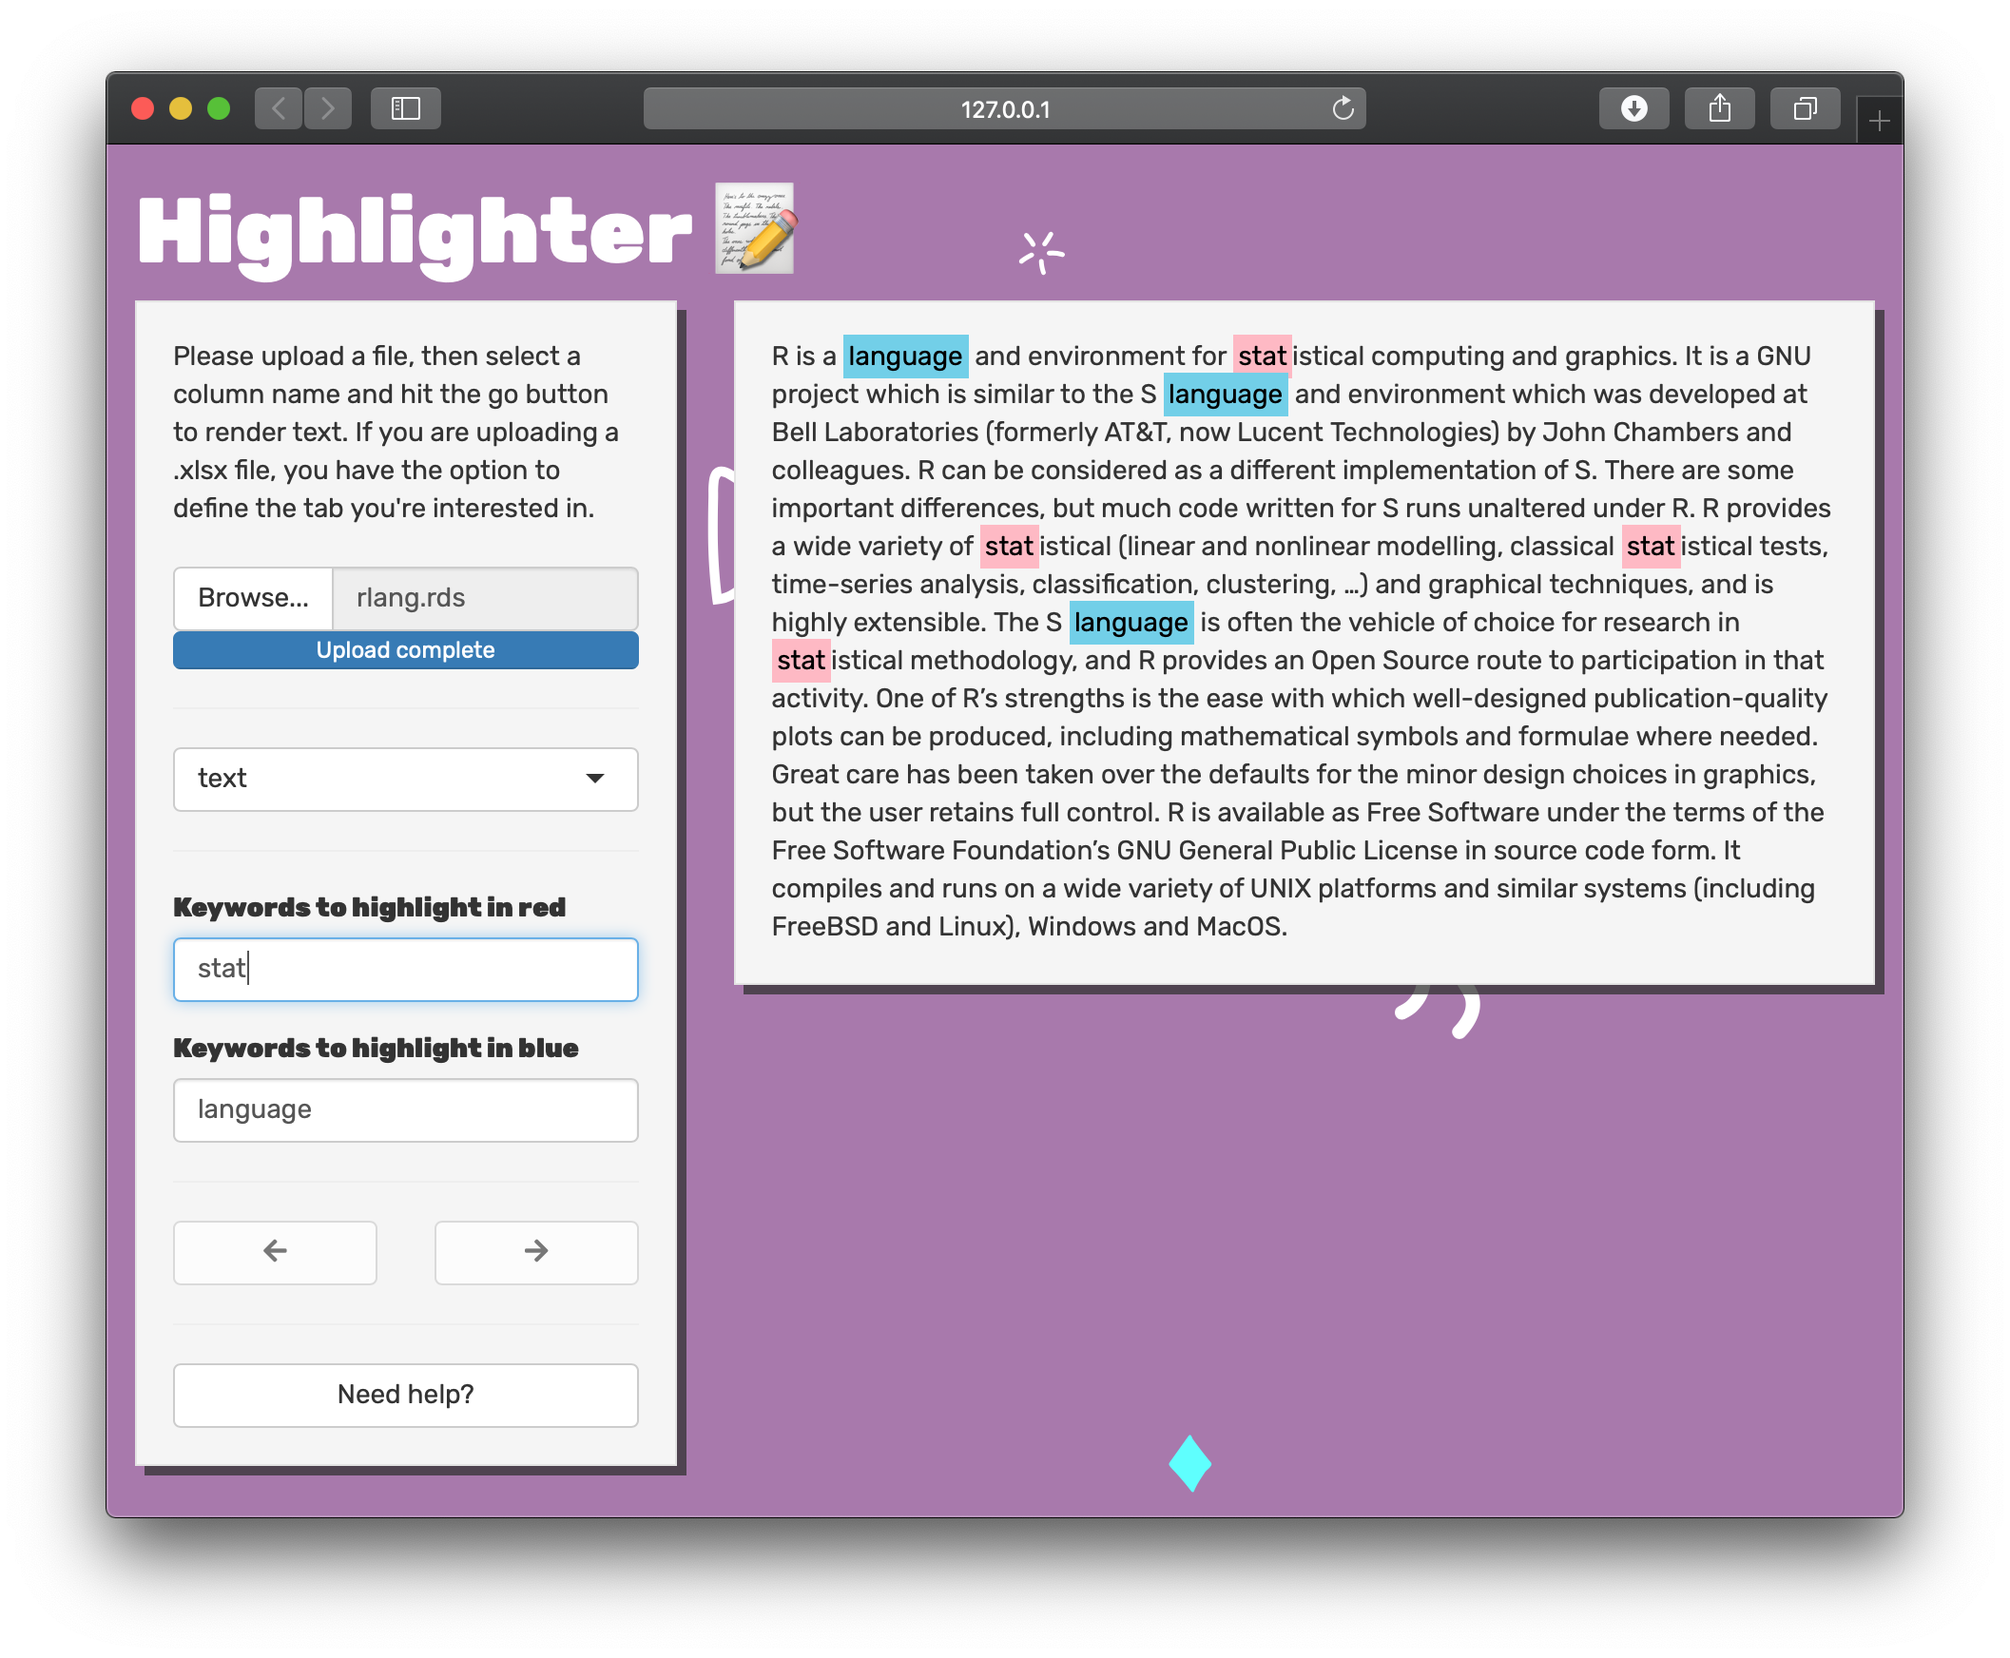
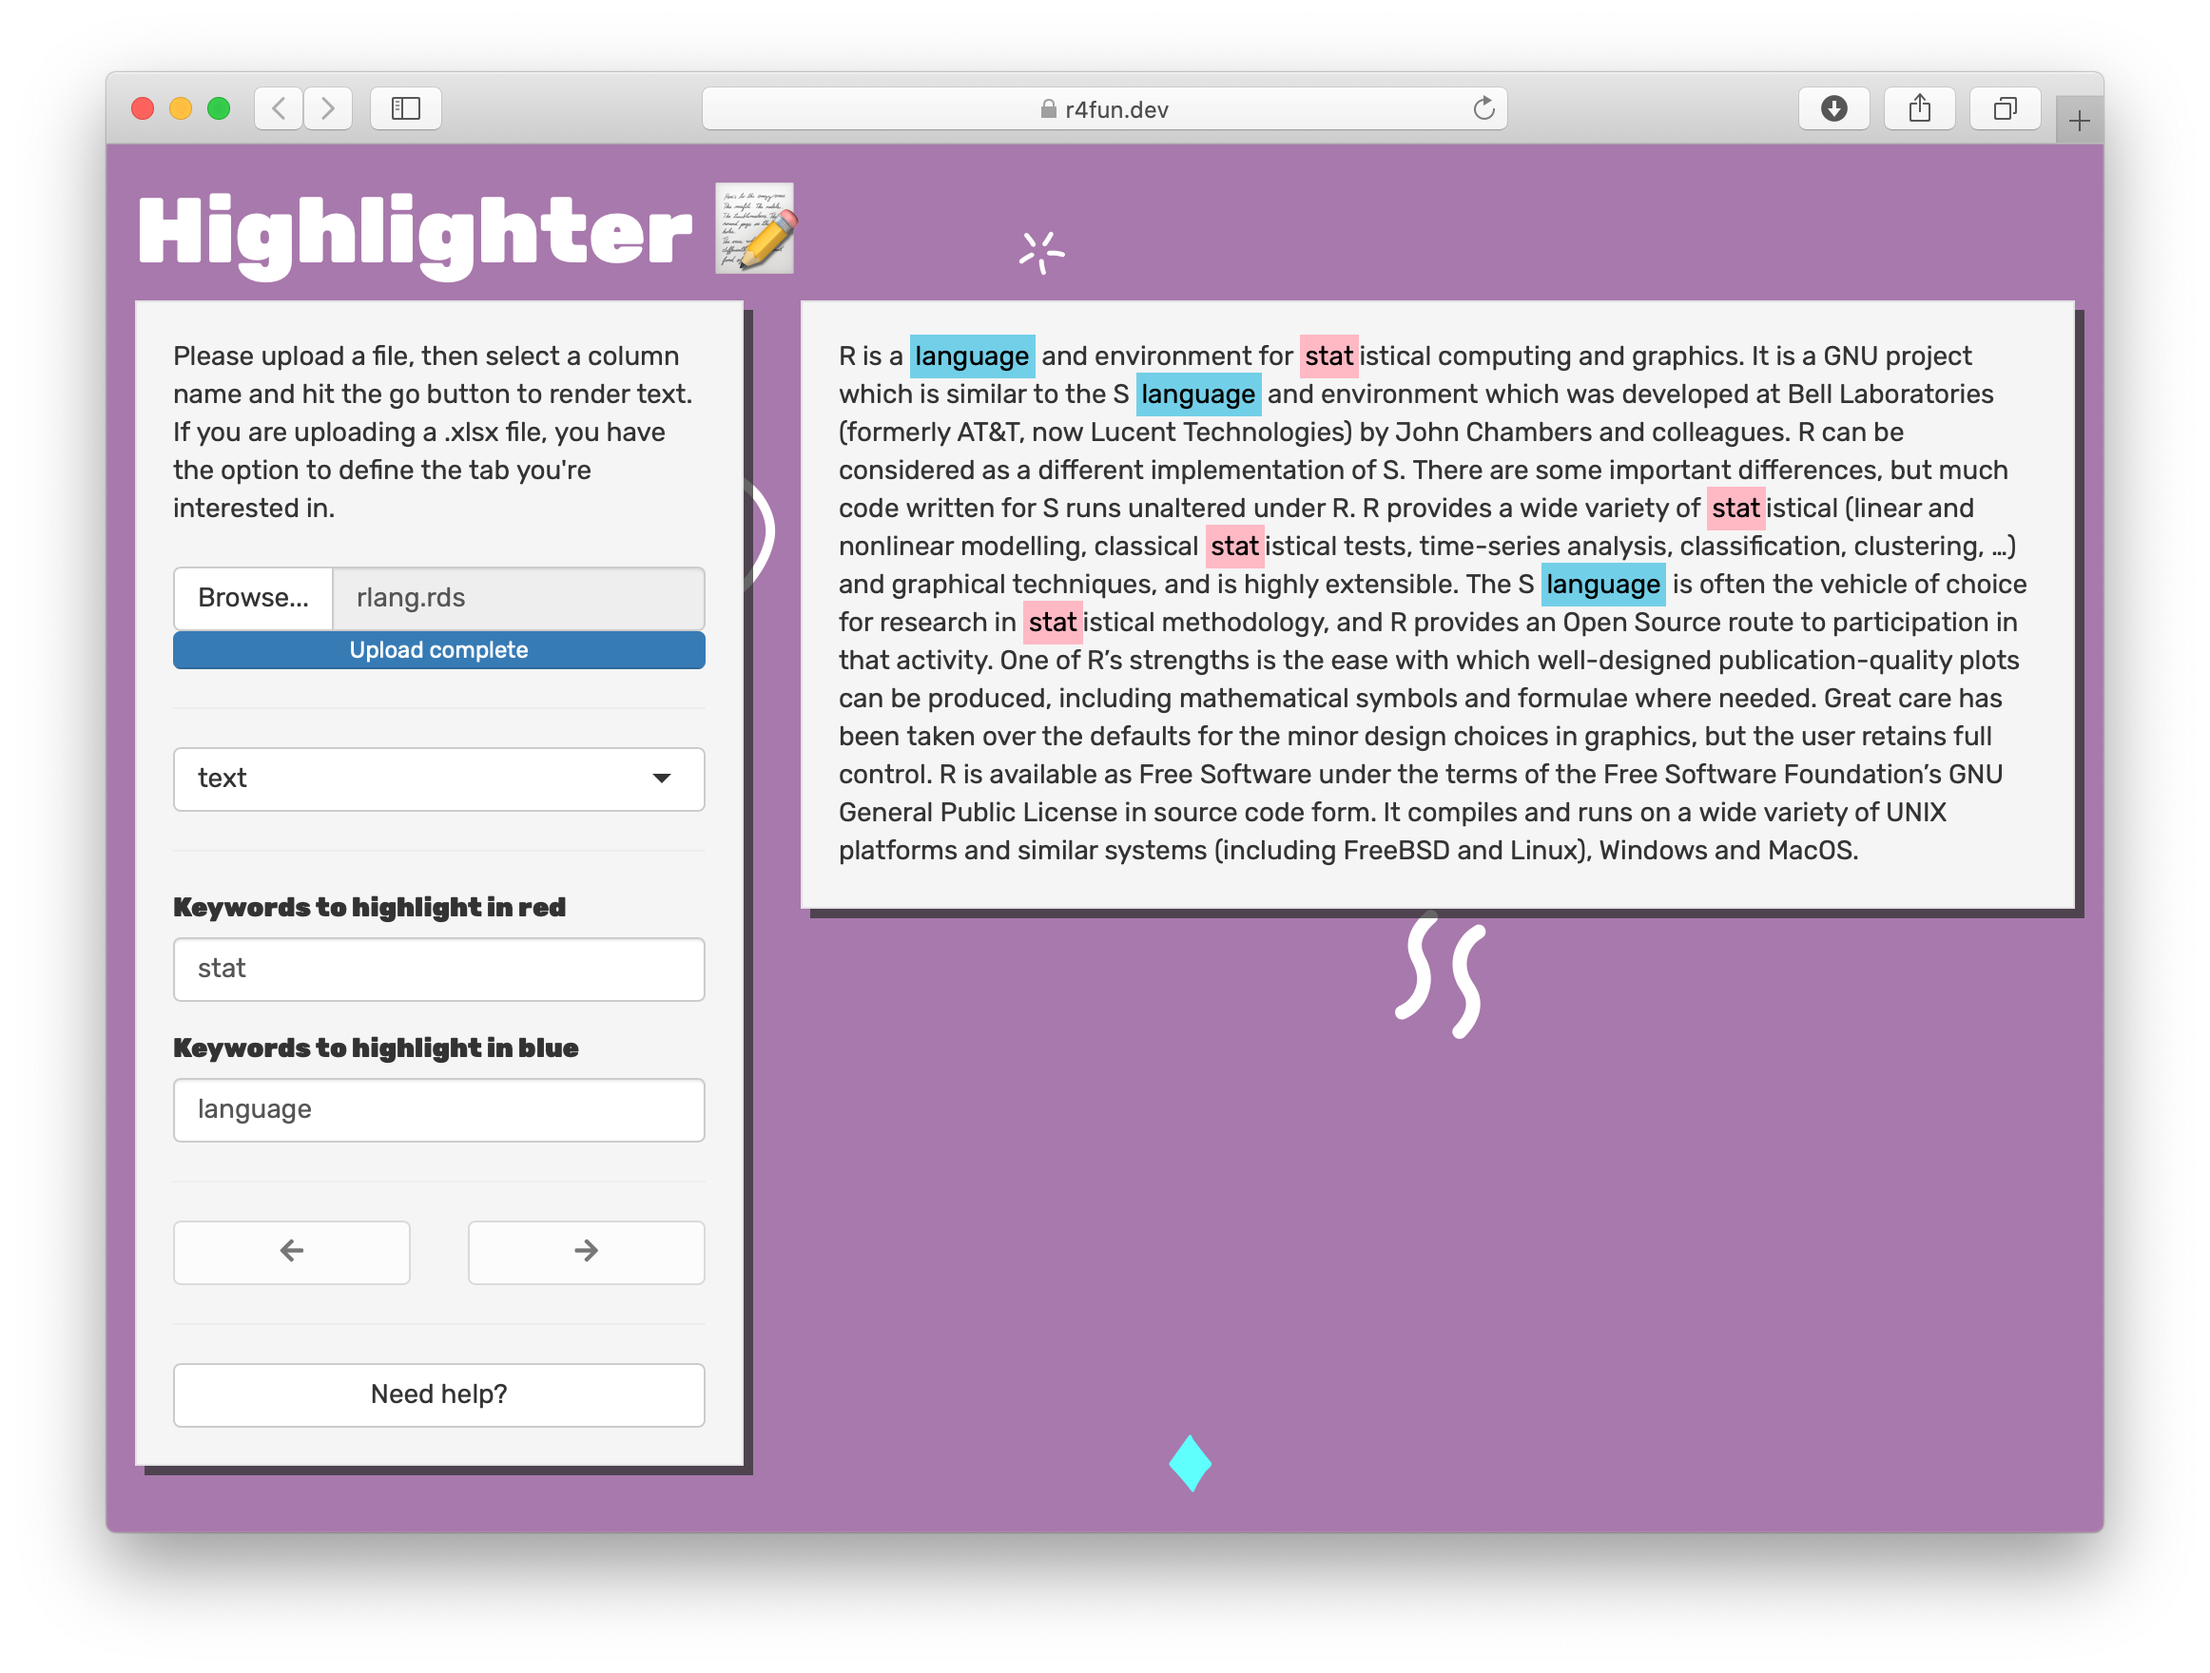
update readme

diff --git a/README.md b/README.md
@@ -14,18 +14,27 @@ highlighting keywords using the
 [`marker`](https://github.com/JohnCoene/marker) package.
 
 A demonstration of the app can be found
-[here](https://tylerlittlefield.com/shiny/tyler/highlighter/). Please
-keep in mind that this demo is run on a cheap/low resource server, so
-you cannot load large datasets on this demo.
+[here](https://r4fun.dev/shiny/highlighter/). Please keep in mind that
+this demo is run on a cheap server, so you cannot load large datasets on
+this demo.
 
 ![](www/demo.png)<!-- -->
 
 ## Installation
 
-You can run the following in your terminal:
+To run this app locally, you need to:
+
+  - clone the repository
+  - restore the `renv.lock` file
+  - run the app
+
+Do this all by running the following in your terminal:
 
 ``` zsh
 git clone https://github.com/r4fun/highlighter.git
 cd highlighter/
 R -e 'renv::restore(confirm = FALSE); shiny::runApp()'
 ```
+
+Keep in mind that this app was built on R 4.0.2, `renv` will let you run
+on a different version but will give you a warning.
